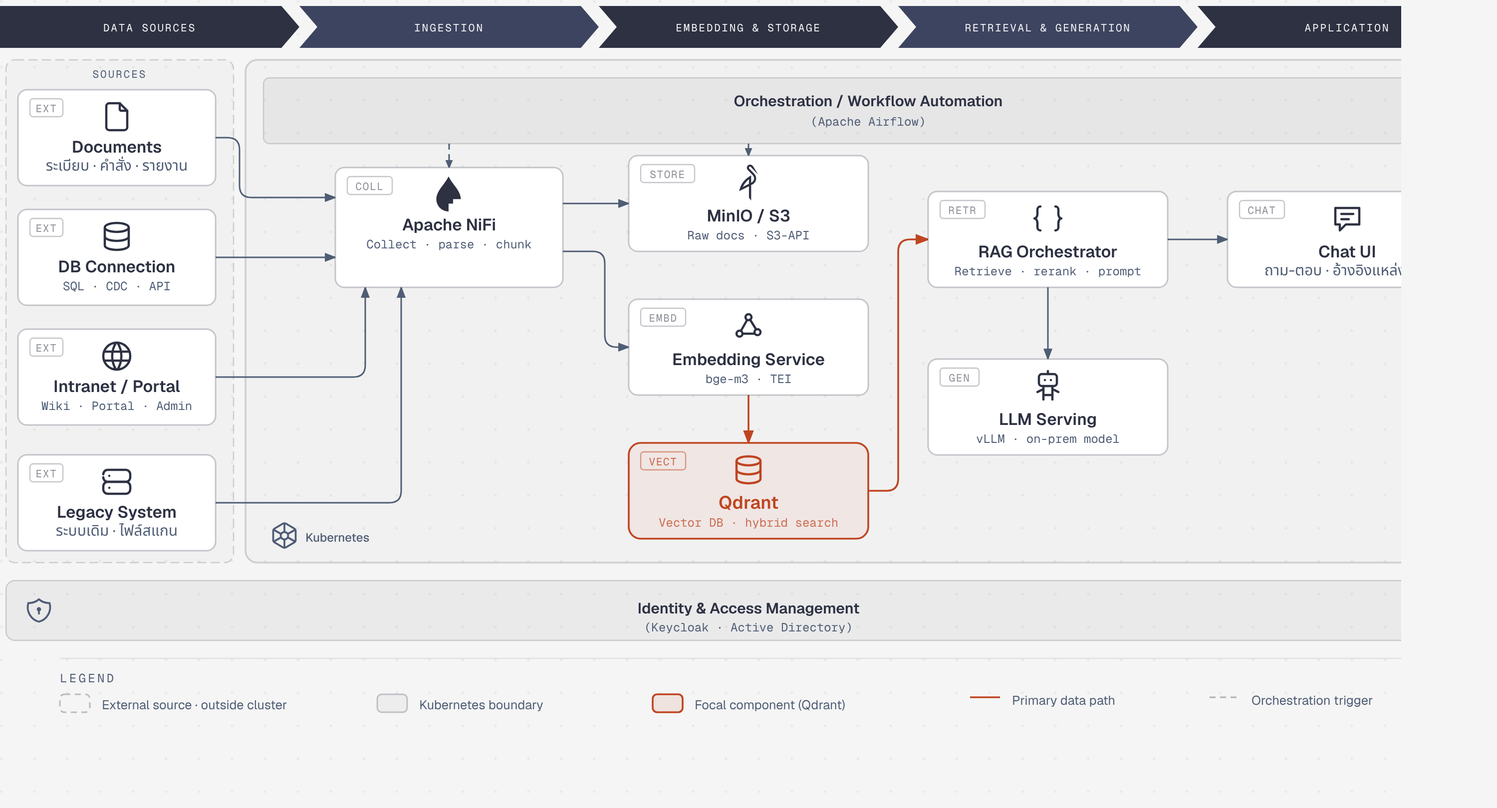
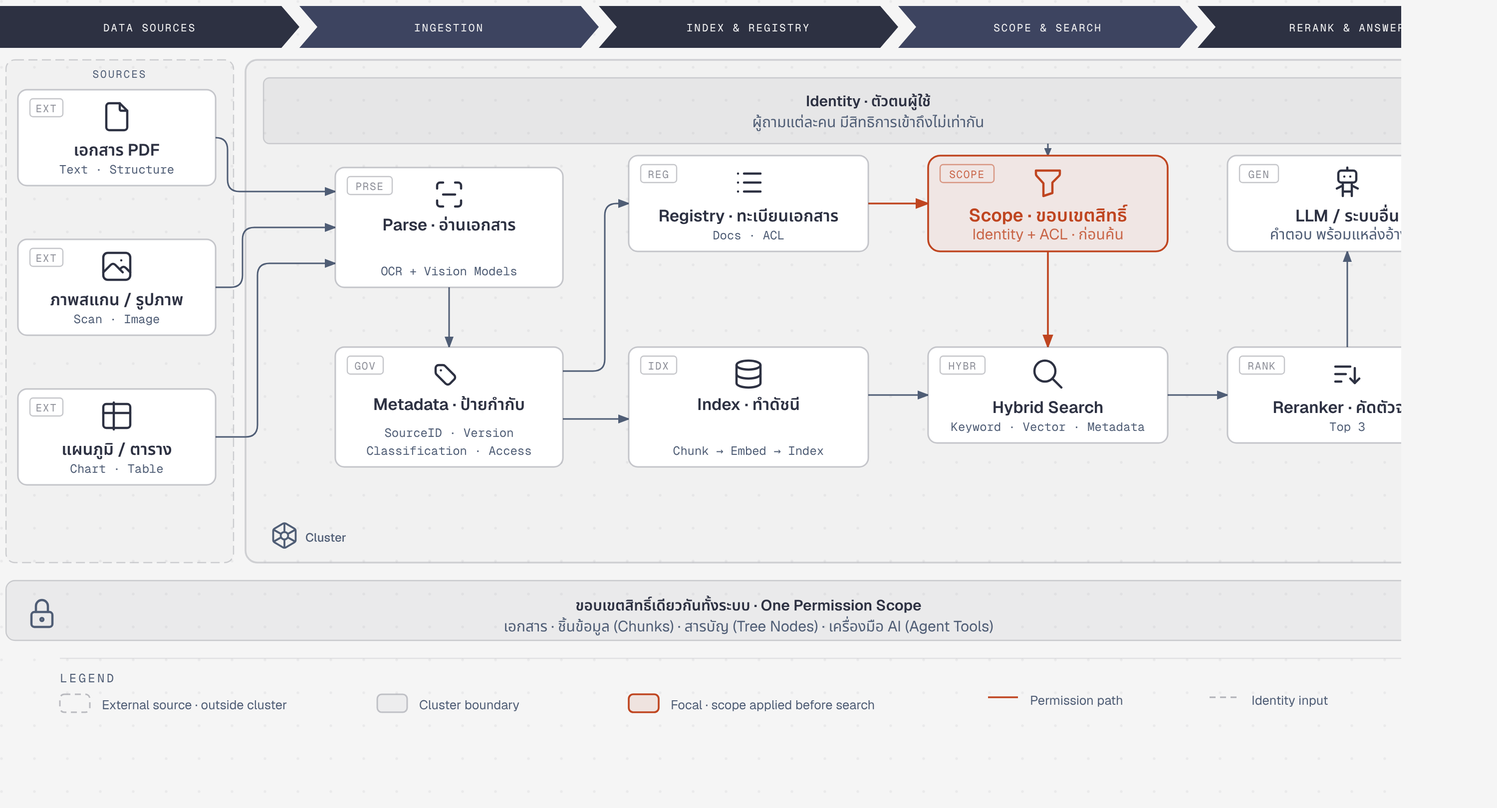
Redraw RAG pipeline diagram from the RTN permission-aware RAG brief
Claude-Session: https://claude.ai/code/session_01QbjLVvmiwCWFdXGCrayMwQ

diff --git a/docs/diagrams/rag-pipeline-navy.html b/docs/diagrams/rag-pipeline-navy.html
@@ -50,13 +50,13 @@
 </head>
 <body>
   <div class="frame">
-    <p class="eyebrow">High-level · End-to-end stack on Kubernetes</p>
+    <p class="eyebrow">High-level · Permission-aware RAG</p>
     <h1>RAG Pipeline สำหรับข้อมูล ทร.</h1>
 
     <div class="scroll">
     <svg class="diagram" viewBox="0 0 1000 540" xmlns="http://www.w3.org/2000/svg" role="img" aria-labelledby="rag-pipeline-title rag-pipeline-desc">
       <title id="rag-pipeline-title">RAG Pipeline สำหรับข้อมูล ทร.</title>
-      <desc id="rag-pipeline-desc">High-level stack on a Kubernetes cluster: documents, databases, intranet and legacy sources flow through Apache NiFi into MinIO and an embedding service, are indexed in Qdrant, then retrieved by a RAG orchestrator that calls an on-prem LLM and serves a chat UI, with Airflow orchestration and identity management.</desc>
+      <desc id="rag-pipeline-desc">Permission-aware RAG on a cluster: PDFs, scans and charts are parsed with OCR and vision models, labelled with governance metadata, indexed and registered with an ACL; the user's identity and the ACL define a permission scope that is applied before hybrid search, followed by a reranker and an LLM that answers with citations.</desc>
       <defs>
         <pattern id="dots" width="22" height="22" patternUnits="userSpaceOnUse">
           <circle cx="1" cy="1" r="0.9" fill="rgba(45,49,66,0.10)"/>
@@ -83,9 +83,9 @@
       <polygon points="800,4 1000,4 1000,32 800,32 812,18" fill="#2d3142"/>
       <text x="100" y="21" fill="#f5f5f5" font-size="7" font-family="'Geist Mono', monospace" letter-spacing="0.14em" text-anchor="middle">DATA SOURCES</text>
       <text x="300" y="21" fill="#f5f5f5" font-size="7" font-family="'Geist Mono', monospace" letter-spacing="0.14em" text-anchor="middle">INGESTION</text>
-      <text x="500" y="21" fill="#f5f5f5" font-size="7" font-family="'Geist Mono', monospace" letter-spacing="0.13em" text-anchor="middle">EMBEDDING &amp; STORAGE</text>
-      <text x="700" y="21" fill="#f5f5f5" font-size="7" font-family="'Geist Mono', monospace" letter-spacing="0.12em" text-anchor="middle">RETRIEVAL &amp; GENERATION</text>
-      <text x="900" y="21" fill="#f5f5f5" font-size="7" font-family="'Geist Mono', monospace" letter-spacing="0.14em" text-anchor="middle">APPLICATION</text>
+      <text x="500" y="21" fill="#f5f5f5" font-size="7" font-family="'Geist Mono', monospace" letter-spacing="0.14em" text-anchor="middle">INDEX &amp; REGISTRY</text>
+      <text x="700" y="21" fill="#f5f5f5" font-size="7" font-family="'Geist Mono', monospace" letter-spacing="0.14em" text-anchor="middle">SCOPE &amp; SEARCH</text>
+      <text x="900" y="21" fill="#f5f5f5" font-size="7" font-family="'Geist Mono', monospace" letter-spacing="0.14em" text-anchor="middle">RERANK &amp; ANSWER</text>
 
       <!-- Zones -->
       <rect x="4" y="40" width="152" height="336" rx="6" fill="rgba(45,49,66,0.02)" stroke="rgba(45,49,66,0.20)" stroke-width="0.8" stroke-dasharray="6,3"/>
@@ -94,18 +94,18 @@
       <rect x="4" y="388" width="992" height="40" rx="6" fill="rgba(45,49,66,0.05)" stroke="rgba(45,49,66,0.20)" stroke-width="0.8"/>
 
       <!-- Arrows (before boxes) -->
-      <path d="M 144,92 H 152 Q 160,92 160,100 V 124 Q 160,132 168,132 H 224" fill="none" stroke="#4f5d75" stroke-width="1" marker-end="url(#arrow)"/>
-      <path d="M 144,172 H 224" fill="none" stroke="#4f5d75" stroke-width="1" marker-end="url(#arrow)"/>
-      <path d="M 144,252 H 236 Q 244,252 244,244 V 192" fill="none" stroke="#4f5d75" stroke-width="1" marker-end="url(#arrow)"/>
-      <path d="M 144,336 H 260 Q 268,336 268,328 V 192" fill="none" stroke="#4f5d75" stroke-width="1" marker-end="url(#arrow)"/>
-      <path d="M 300,96 V 112" fill="none" stroke="#4f5d75" stroke-width="1" stroke-dasharray="4,3" marker-end="url(#arrow-sm)"/>
-      <path d="M 500,96 V 104" fill="none" stroke="#4f5d75" stroke-width="1" stroke-dasharray="4,3" marker-end="url(#arrow-sm)"/>
-      <path d="M 376,136 H 420" fill="none" stroke="#4f5d75" stroke-width="1" marker-end="url(#arrow)"/>
-      <path d="M 376,168 H 396 Q 404,168 404,176 V 224 Q 404,232 412,232 H 420" fill="none" stroke="#4f5d75" stroke-width="1" marker-end="url(#arrow)"/>
-      <path d="M 500,264 V 296" fill="none" stroke="#bf4520" stroke-width="1.2" marker-end="url(#arrow-accent)"/>
-      <path d="M 580,328 H 592 Q 600,328 600,320 V 168 Q 600,160 608,160 H 620" fill="none" stroke="#bf4520" stroke-width="1.2" marker-end="url(#arrow-accent)"/>
-      <path d="M 700,192 V 240" fill="none" stroke="#4f5d75" stroke-width="1" marker-end="url(#arrow)"/>
-      <path d="M 780,160 H 820" fill="none" stroke="#4f5d75" stroke-width="1" marker-end="url(#arrow)"/>
+      <path d="M 144,92 Q 152,92 152,100 V 120 Q 152,128 160,128 H 224" fill="none" stroke="#4f5d75" stroke-width="1" marker-end="url(#arrow)"/>
+      <path d="M 144,192 H 154 Q 162,192 162,184 V 160 Q 162,152 170,152 H 224" fill="none" stroke="#4f5d75" stroke-width="1" marker-end="url(#arrow)"/>
+      <path d="M 144,292 H 164 Q 172,292 172,284 V 184 Q 172,176 180,176 H 224" fill="none" stroke="#4f5d75" stroke-width="1" marker-end="url(#arrow)"/>
+      <path d="M 700,96 V 104" fill="none" stroke="#4f5d75" stroke-width="1" stroke-dasharray="4,3" marker-end="url(#arrow-sm)"/>
+      <path d="M 300,192 V 232" fill="none" stroke="#4f5d75" stroke-width="1" marker-end="url(#arrow)"/>
+      <path d="M 376,248 H 396 Q 404,248 404,240 V 144 Q 404,136 412,136 H 420" fill="none" stroke="#4f5d75" stroke-width="1" marker-end="url(#arrow)"/>
+      <path d="M 376,280 H 420" fill="none" stroke="#4f5d75" stroke-width="1" marker-end="url(#arrow)"/>
+      <path d="M 580,136 H 620" fill="none" stroke="#bf4520" stroke-width="1.2" marker-end="url(#arrow-accent)"/>
+      <path d="M 700,168 V 232" fill="none" stroke="#bf4520" stroke-width="1.2" marker-end="url(#arrow-accent)"/>
+      <path d="M 580,264 H 620" fill="none" stroke="#4f5d75" stroke-width="1" marker-end="url(#arrow)"/>
+      <path d="M 780,264 H 820" fill="none" stroke="#4f5d75" stroke-width="1" marker-end="url(#arrow)"/>
+      <path d="M 900,232 V 168" fill="none" stroke="#4f5d75" stroke-width="1" marker-end="url(#arrow)"/>
 
       <!-- Sources -->
       <rect x="12" y="60" width="132" height="64" rx="6" fill="#f5f5f5"/>
@@ -113,88 +113,89 @@
       <rect x="20" y="66" width="22" height="12" rx="2" fill="transparent" stroke="rgba(45,49,66,0.28)" stroke-width="0.8"/>
       <text x="31.0" y="75" fill="rgba(45,49,66,0.55)" font-size="7" font-family="'Geist Mono', monospace" text-anchor="middle" letter-spacing="0.08em">EXT</text>
       <svg x="66" y="66" width="24" height="24" viewBox="0 0 24 24" fill="none" stroke="#2d3142" stroke-width="1.5" stroke-linecap="round" stroke-linejoin="round" aria-hidden="true"><path d="M14 3v4a1 1 0 0 0 1 1h4"/><path d="M17 21h-10a2 2 0 0 1 -2 -2v-14a2 2 0 0 1 2 -2h7l5 5v11a2 2 0 0 1 -2 2"/></svg>
-      <text x="78.0" y="102" fill="#2d3142" font-size="11" font-weight="600" font-family="'Geist', 'Noto Sans Thai', sans-serif" text-anchor="middle">Documents</text>
-      <text x="78.0" y="114" fill="#4f5d75" font-size="10" font-family="'Geist', 'Noto Sans Thai', sans-serif" text-anchor="middle">ระเบียบ · คำสั่ง · รายงาน</text>
-      <rect x="12" y="140" width="132" height="64" rx="6" fill="#f5f5f5"/>
-      <rect x="12" y="140" width="132" height="64" rx="6" fill="white" stroke="rgba(45,49,66,0.25)" stroke-width="1"/>
-      <rect x="20" y="146" width="22" height="12" rx="2" fill="transparent" stroke="rgba(45,49,66,0.28)" stroke-width="0.8"/>
-      <text x="31.0" y="155" fill="rgba(45,49,66,0.55)" font-size="7" font-family="'Geist Mono', monospace" text-anchor="middle" letter-spacing="0.08em">EXT</text>
-      <svg x="66" y="146" width="24" height="24" viewBox="0 0 24 24" fill="none" stroke="#2d3142" stroke-width="1.5" stroke-linecap="round" stroke-linejoin="round" aria-hidden="true"><path d="M4 6a8 3 0 1 0 16 0a8 3 0 1 0 -16 0"/><path d="M4 6v6a8 3 0 0 0 16 0v-6"/><path d="M4 12v6a8 3 0 0 0 16 0v-6"/></svg>
-      <text x="78.0" y="182" fill="#2d3142" font-size="11" font-weight="600" font-family="'Geist', 'Noto Sans Thai', sans-serif" text-anchor="middle">DB Connection</text>
-      <text x="78.0" y="194" fill="#4f5d75" font-size="8" font-family="'Geist Mono', monospace" text-anchor="middle">SQL · CDC · API</text>
-      <rect x="12" y="220" width="132" height="64" rx="6" fill="#f5f5f5"/>
-      <rect x="12" y="220" width="132" height="64" rx="6" fill="white" stroke="rgba(45,49,66,0.25)" stroke-width="1"/>
-      <rect x="20" y="226" width="22" height="12" rx="2" fill="transparent" stroke="rgba(45,49,66,0.28)" stroke-width="0.8"/>
-      <text x="31.0" y="235" fill="rgba(45,49,66,0.55)" font-size="7" font-family="'Geist Mono', monospace" text-anchor="middle" letter-spacing="0.08em">EXT</text>
-      <svg x="66" y="226" width="24" height="24" viewBox="0 0 24 24" fill="none" stroke="#2d3142" stroke-width="1.5" stroke-linecap="round" stroke-linejoin="round" aria-hidden="true"><circle cx="12" cy="12" r="9"/><path d="M3.6 9h16.8M3.6 15h16.8"/><path d="M11.5 3a17 17 0 0 0 0 18M12.5 3a17 17 0 0 1 0 18"/></svg>
-      <text x="78.0" y="262" fill="#2d3142" font-size="11" font-weight="600" font-family="'Geist', 'Noto Sans Thai', sans-serif" text-anchor="middle">Intranet / Portal</text>
-      <text x="78.0" y="274" fill="#4f5d75" font-size="8" font-family="'Geist Mono', monospace" text-anchor="middle">Wiki · Portal · Admin</text>
-      <rect x="12" y="304" width="132" height="64" rx="6" fill="#f5f5f5"/>
-      <rect x="12" y="304" width="132" height="64" rx="6" fill="white" stroke="rgba(45,49,66,0.25)" stroke-width="1"/>
-      <rect x="20" y="310" width="22" height="12" rx="2" fill="transparent" stroke="rgba(45,49,66,0.28)" stroke-width="0.8"/>
-      <text x="31.0" y="319" fill="rgba(45,49,66,0.55)" font-size="7" font-family="'Geist Mono', monospace" text-anchor="middle" letter-spacing="0.08em">EXT</text>
-      <svg x="66" y="310" width="24" height="24" viewBox="0 0 24 24" fill="none" stroke="#2d3142" stroke-width="1.5" stroke-linecap="round" stroke-linejoin="round" aria-hidden="true"><path d="M3 7a3 3 0 0 1 3 -3h12a3 3 0 0 1 3 3v2a3 3 0 0 1 -3 3h-12a3 3 0 0 1 -3 -3"/><path d="M3 15a3 3 0 0 1 3 -3h12a3 3 0 0 1 3 3v2a3 3 0 0 1 -3 3h-12a3 3 0 0 1 -3 -3l0 -2"/><path d="M7 8l0 .01"/><path d="M7 16l0 .01"/></svg>
-      <text x="78.0" y="346" fill="#2d3142" font-size="11" font-weight="600" font-family="'Geist', 'Noto Sans Thai', sans-serif" text-anchor="middle">Legacy System</text>
-      <text x="78.0" y="358" fill="#4f5d75" font-size="10" font-family="'Geist', 'Noto Sans Thai', sans-serif" text-anchor="middle">ระบบเดิม · ไฟล์สแกน</text>
+      <text x="78.0" y="104" fill="#2d3142" font-size="11" font-weight="600" font-family="'Geist', 'Noto Sans Thai', sans-serif" text-anchor="middle">เอกสาร PDF</text>
+      <text x="78.0" y="116" fill="#4f5d75" font-size="8" font-family="'Geist Mono', monospace" text-anchor="middle">Text · Structure</text>
+      <rect x="12" y="160" width="132" height="64" rx="6" fill="#f5f5f5"/>
+      <rect x="12" y="160" width="132" height="64" rx="6" fill="white" stroke="rgba(45,49,66,0.25)" stroke-width="1"/>
+      <rect x="20" y="166" width="22" height="12" rx="2" fill="transparent" stroke="rgba(45,49,66,0.28)" stroke-width="0.8"/>
+      <text x="31.0" y="175" fill="rgba(45,49,66,0.55)" font-size="7" font-family="'Geist Mono', monospace" text-anchor="middle" letter-spacing="0.08em">EXT</text>
+      <svg x="66" y="166" width="24" height="24" viewBox="0 0 24 24" fill="none" stroke="#2d3142" stroke-width="1.5" stroke-linecap="round" stroke-linejoin="round" aria-hidden="true"><path d="M15 8h.01"/><path d="M3 6a3 3 0 0 1 3 -3h12a3 3 0 0 1 3 3v12a3 3 0 0 1 -3 3h-12a3 3 0 0 1 -3 -3l0 -12"/><path d="M3 16l5 -5c.928 -.893 2.072 -.893 3 0l5 5"/><path d="M14 14l1 -1c.928 -.893 2.072 -.893 3 0l3 3"/></svg>
+      <text x="78.0" y="204" fill="#2d3142" font-size="11" font-weight="600" font-family="'Geist', 'Noto Sans Thai', sans-serif" text-anchor="middle">ภาพสแกน / รูปภาพ</text>
+      <text x="78.0" y="216" fill="#4f5d75" font-size="8" font-family="'Geist Mono', monospace" text-anchor="middle">Scan · Image</text>
+      <rect x="12" y="260" width="132" height="64" rx="6" fill="#f5f5f5"/>
+      <rect x="12" y="260" width="132" height="64" rx="6" fill="white" stroke="rgba(45,49,66,0.25)" stroke-width="1"/>
+      <rect x="20" y="266" width="22" height="12" rx="2" fill="transparent" stroke="rgba(45,49,66,0.28)" stroke-width="0.8"/>
+      <text x="31.0" y="275" fill="rgba(45,49,66,0.55)" font-size="7" font-family="'Geist Mono', monospace" text-anchor="middle" letter-spacing="0.08em">EXT</text>
+      <svg x="66" y="266" width="24" height="24" viewBox="0 0 24 24" fill="none" stroke="#2d3142" stroke-width="1.5" stroke-linecap="round" stroke-linejoin="round" aria-hidden="true"><path d="M3 6a2 2 0 0 1 2 -2h14a2 2 0 0 1 2 2v12a2 2 0 0 1 -2 2h-14a2 2 0 0 1 -2 -2l0 -12"/><path d="M3 10h18"/><path d="M10 3v18"/></svg>
+      <text x="78.0" y="304" fill="#2d3142" font-size="11" font-weight="600" font-family="'Geist', 'Noto Sans Thai', sans-serif" text-anchor="middle">แผนภูมิ / ตาราง</text>
+      <text x="78.0" y="316" fill="#4f5d75" font-size="8" font-family="'Geist Mono', monospace" text-anchor="middle">Chart · Table</text>
 
-      <!-- Airflow bar -->
+      <!-- Identity bar (top, inside cluster) -->
       <rect x="176" y="52" width="808" height="44" rx="4" fill="rgba(45,49,66,0.05)" stroke="rgba(45,49,66,0.18)" stroke-width="0.8"/>
-      <svg x="950" y="58" width="24" height="24" viewBox="0 0 24 24" fill="#4f5d75" aria-hidden="true"><path d="M17.195 16.822l4.002-4.102C23.55 10.308 23.934 5.154 24 .43a.396.396 0 0 0-.246-.373.392.392 0 0 0-.437.09l-6.495 6.658-4.102-4.003C10.309.45 5.154.066.43 0H.423a.397.397 0 0 0-.277.683l6.658 6.494-4.003 4.103C.45 13.692.065 18.846 0 23.57a.398.398 0 0 0 .683.282l6.494-6.657 3.934 3.837.17.165c2.41 2.353 7.565 2.737 12.288 2.803h.006a.397.397 0 0 0 .277-.683l-6.657-6.495z"/></svg>
-      <text x="580" y="71" fill="#2d3142" font-size="10" font-weight="600" font-family="'Geist', 'Noto Sans Thai', sans-serif" text-anchor="middle">Orchestration / Workflow Automation</text>
-      <text x="580" y="84" fill="#4f5d75" font-size="8" font-family="'Geist Mono', monospace" text-anchor="middle">(Apache Airflow)</text>
+      <svg x="950" y="62" width="24" height="24" viewBox="0 0 24 24" fill="none" stroke="#4f5d75" stroke-width="1.5" stroke-linecap="round" stroke-linejoin="round" aria-hidden="true"><path d="M8 7a4 4 0 1 0 8 0a4 4 0 1 0 -8 0"/><path d="M6 21v-2a4 4 0 0 1 4 -4h4a4 4 0 0 1 4 4v2"/></svg>
+      <text x="580" y="71" fill="#2d3142" font-size="10" font-weight="600" font-family="'Geist', 'Noto Sans Thai', sans-serif" text-anchor="middle">Identity · ตัวตนผู้ใช้</text>
+      <text x="580" y="85" fill="#4f5d75" font-size="10" font-family="'Geist', 'Noto Sans Thai', sans-serif" text-anchor="middle">ผู้ถามแต่ละคน มีสิทธิการเข้าถึงไม่เท่ากัน</text>
 
       <!-- Cluster nodes -->
       <rect x="224" y="112" width="152" height="80" rx="6" fill="#f5f5f5"/>
       <rect x="224" y="112" width="152" height="80" rx="6" fill="white" stroke="rgba(45,49,66,0.25)" stroke-width="1"/>
       <rect x="232" y="118" width="30" height="12" rx="2" fill="transparent" stroke="rgba(45,49,66,0.28)" stroke-width="0.8"/>
-      <text x="247.0" y="127" fill="rgba(45,49,66,0.55)" font-size="7" font-family="'Geist Mono', monospace" text-anchor="middle" letter-spacing="0.08em">COLL</text>
-      <svg x="288" y="118" width="24" height="24" viewBox="0 0 24 24" fill="#2d3142" aria-hidden="true"><path d="M11.648 0a.093.093 0 0 0-.084.053A30.71 30.71 0 0 1 8.592 4.73c-2.09 2.728-5.145 6.466-5.145 10.364a8.201 8.201 0 0 0 8.201 8.2v-5.003c0-.106.087-.193.194-.193h2.81v-2.813c0-.106.087-.191.194-.191h5.004c0-3.9-3.056-7.636-5.145-10.364A30.712 30.712 0 0 1 11.732.053.094.094 0 0 0 11.648 0z"/></svg>
-      <text x="300.0" y="154" fill="#2d3142" font-size="11" font-weight="600" font-family="'Geist', 'Noto Sans Thai', sans-serif" text-anchor="middle">Apache NiFi</text>
-      <text x="300.0" y="166" fill="#4f5d75" font-size="8" font-family="'Geist Mono', monospace" text-anchor="middle">Collect · parse · chunk</text>
+      <text x="247.0" y="127" fill="rgba(45,49,66,0.55)" font-size="7" font-family="'Geist Mono', monospace" text-anchor="middle" letter-spacing="0.08em">PRSE</text>
+      <svg x="288" y="118" width="24" height="24" viewBox="0 0 24 24" fill="none" stroke="#2d3142" stroke-width="1.5" stroke-linecap="round" stroke-linejoin="round" aria-hidden="true"><path d="M4 8v-2a2 2 0 0 1 2 -2h2"/><path d="M4 16v2a2 2 0 0 0 2 2h2"/><path d="M16 4h2a2 2 0 0 1 2 2v2"/><path d="M16 20h2a2 2 0 0 0 2 -2v-2"/><path d="M8 12h8"/></svg>
+      <text x="300.0" y="154" fill="#2d3142" font-size="11" font-weight="600" font-family="'Geist', 'Noto Sans Thai', sans-serif" text-anchor="middle">Parse · อ่านเอกสาร</text>
+      <text x="300.0" y="184" fill="#4f5d75" font-size="8" font-family="'Geist Mono', monospace" text-anchor="middle">OCR + Vision Models</text>
+      <rect x="224" y="232" width="152" height="80" rx="6" fill="#f5f5f5"/>
+      <rect x="224" y="232" width="152" height="80" rx="6" fill="white" stroke="rgba(45,49,66,0.25)" stroke-width="1"/>
+      <rect x="232" y="238" width="24" height="12" rx="2" fill="transparent" stroke="rgba(45,49,66,0.28)" stroke-width="0.8"/>
+      <text x="244.0" y="247" fill="rgba(45,49,66,0.55)" font-size="7" font-family="'Geist Mono', monospace" text-anchor="middle" letter-spacing="0.08em">GOV</text>
+      <svg x="288" y="238" width="24" height="24" viewBox="0 0 24 24" fill="none" stroke="#2d3142" stroke-width="1.5" stroke-linecap="round" stroke-linejoin="round" aria-hidden="true"><path d="M7.859 6h-2.834a2.025 2.025 0 0 0 -2.025 2.025v2.834c0 .537 .213 1.052 .593 1.432l6.116 6.116a2.025 2.025 0 0 0 2.864 0l2.834 -2.834a2.025 2.025 0 0 0 0 -2.864l-6.117 -6.116a2.025 2.025 0 0 0 -1.431 -.593"/><path d="M6.5 9.5h.01"/></svg>
+      <text x="300.0" y="274" fill="#2d3142" font-size="11" font-weight="600" font-family="'Geist', 'Noto Sans Thai', sans-serif" text-anchor="middle">Metadata · ป้ายกำกับ</text>
+      <text x="300.0" y="292" fill="#4f5d75" font-size="8" font-family="'Geist Mono', monospace" text-anchor="middle">SourceID · Version</text>
+      <text x="300.0" y="304" fill="#4f5d75" font-size="8" font-family="'Geist Mono', monospace" text-anchor="middle">Classification · Access</text>
       <rect x="420" y="104" width="160" height="64" rx="6" fill="#f5f5f5"/>
       <rect x="420" y="104" width="160" height="64" rx="6" fill="white" stroke="rgba(45,49,66,0.25)" stroke-width="1"/>
-      <rect x="428" y="110" width="36" height="12" rx="2" fill="transparent" stroke="rgba(45,49,66,0.28)" stroke-width="0.8"/>
-      <text x="446.0" y="119" fill="rgba(45,49,66,0.55)" font-size="7" font-family="'Geist Mono', monospace" text-anchor="middle" letter-spacing="0.08em">STORE</text>
-      <svg x="488" y="110" width="24" height="24" viewBox="0 0 24 24" fill="#2d3142" aria-hidden="true"><path d="M13.2072.006c-.6216-.0478-1.2.1943-1.6211.582a2.15 2.15 0 0 0-.0938 3.0352l3.4082 3.5507a3.042 3.042 0 0 1-.664 4.6875l-.463.2383V7.2853a15.4198 15.4198 0 0 0-8.0174 10.4862v.0176l6.5487-3.3281v7.621L13.7794 24V13.6817l.8965-.4629a4.4432 4.4432 0 0 0 1.2207-7.0292l-3.371-3.5254a.7489.7489 0 0 1 .037-1.0547.7522.7522 0 0 1 1.0567.0371l.4668.4863-.006.0059 4.0704 4.2441a.0566.0566 0 0 0 .082 0 .06.06 0 0 0 0-.0703l-3.1406-5.1425-.1484.1425.1484-.1445C14.4945.3926 13.8287.0538 13.2072.006Zm-.9024 9.8652v2.9941l-4.1523 2.1484a13.9787 13.9787 0 0 1 2.7676-3.9277 14.1784 14.1784 0 0 1 1.3847-1.2148z"/></svg>
-      <text x="500.0" y="148" fill="#2d3142" font-size="11" font-weight="600" font-family="'Geist', 'Noto Sans Thai', sans-serif" text-anchor="middle">MinIO / S3</text>
-      <text x="500.0" y="160" fill="#4f5d75" font-size="8" font-family="'Geist Mono', monospace" text-anchor="middle">Raw docs · S3-API</text>
-      <rect x="420" y="200" width="160" height="64" rx="6" fill="#f5f5f5"/>
-      <rect x="420" y="200" width="160" height="64" rx="6" fill="white" stroke="rgba(45,49,66,0.25)" stroke-width="1"/>
-      <rect x="428" y="206" width="30" height="12" rx="2" fill="transparent" stroke="rgba(45,49,66,0.28)" stroke-width="0.8"/>
-      <text x="443.0" y="215" fill="rgba(45,49,66,0.55)" font-size="7" font-family="'Geist Mono', monospace" text-anchor="middle" letter-spacing="0.08em">EMBD</text>
-      <svg x="488" y="206" width="24" height="24" viewBox="0 0 24 24" fill="none" stroke="#2d3142" stroke-width="1.5" stroke-linecap="round" stroke-linejoin="round" aria-hidden="true"><circle cx="6" cy="17" r="2"/><circle cx="12" cy="6" r="2"/><circle cx="18" cy="16" r="2"/><path d="M7 15l4 -7M13 7.5l4 6.5M8 17h8"/></svg>
-      <text x="500.0" y="244" fill="#2d3142" font-size="11" font-weight="600" font-family="'Geist', 'Noto Sans Thai', sans-serif" text-anchor="middle">Embedding Service</text>
-      <text x="500.0" y="256" fill="#4f5d75" font-size="8" font-family="'Geist Mono', monospace" text-anchor="middle">bge-m3 · TEI</text>
-      <rect x="420" y="296" width="160" height="64" rx="8" fill="#f5f5f5"/>
-      <rect x="420" y="296" width="160" height="64" rx="8" fill="rgba(191,69,32,0.08)" stroke="#bf4520" stroke-width="1.2"/>
-      <rect x="428" y="302" width="30" height="12" rx="2" fill="transparent" stroke="rgba(191,69,32,0.50)" stroke-width="0.8"/>
-      <text x="443.0" y="311" fill="rgba(191,69,32,0.80)" font-size="7" font-family="'Geist Mono', monospace" text-anchor="middle" letter-spacing="0.08em">VECT</text>
-      <svg x="488" y="302" width="24" height="24" viewBox="0 0 24 24" fill="none" stroke="#bf4520" stroke-width="1.5" stroke-linecap="round" stroke-linejoin="round" aria-hidden="true"><path d="M4 6a8 3 0 1 0 16 0a8 3 0 1 0 -16 0"/><path d="M4 6v6a8 3 0 0 0 16 0v-6"/><path d="M4 12v6a8 3 0 0 0 16 0v-6"/></svg>
-      <text x="500.0" y="340" fill="#bf4520" font-size="12" font-weight="600" font-family="'Geist', 'Noto Sans Thai', sans-serif" text-anchor="middle">Qdrant</text>
-      <text x="500.0" y="352" fill="#bf4520" font-size="8" font-family="'Geist Mono', monospace" text-anchor="middle" opacity="0.75">Vector DB · hybrid search</text>
-      <rect x="620" y="128" width="160" height="64" rx="6" fill="#f5f5f5"/>
-      <rect x="620" y="128" width="160" height="64" rx="6" fill="white" stroke="rgba(45,49,66,0.25)" stroke-width="1"/>
-      <rect x="628" y="134" width="30" height="12" rx="2" fill="transparent" stroke="rgba(45,49,66,0.28)" stroke-width="0.8"/>
-      <text x="643.0" y="143" fill="rgba(45,49,66,0.55)" font-size="7" font-family="'Geist Mono', monospace" text-anchor="middle" letter-spacing="0.08em">RETR</text>
-      <svg x="688" y="134" width="24" height="24" viewBox="0 0 24 24" fill="none" stroke="#2d3142" stroke-width="1.5" stroke-linecap="round" stroke-linejoin="round" aria-hidden="true"><path d="M7 4a2 2 0 0 0 -2 2v3a2 3 0 0 1 -2 3a2 3 0 0 1 2 3v3a2 2 0 0 0 2 2"/><path d="M17 4a2 2 0 0 1 2 2v3a2 3 0 0 0 2 3a2 3 0 0 0 -2 3v3a2 2 0 0 1 -2 2"/></svg>
-      <text x="700.0" y="172" fill="#2d3142" font-size="11" font-weight="600" font-family="'Geist', 'Noto Sans Thai', sans-serif" text-anchor="middle">RAG Orchestrator</text>
-      <text x="700.0" y="184" fill="#4f5d75" font-size="8" font-family="'Geist Mono', monospace" text-anchor="middle">Retrieve · rerank · prompt</text>
-      <rect x="620" y="240" width="160" height="64" rx="6" fill="#f5f5f5"/>
-      <rect x="620" y="240" width="160" height="64" rx="6" fill="white" stroke="rgba(45,49,66,0.25)" stroke-width="1"/>
-      <rect x="628" y="246" width="26" height="12" rx="2" fill="transparent" stroke="rgba(45,49,66,0.28)" stroke-width="0.8"/>
-      <text x="641.0" y="255" fill="rgba(45,49,66,0.55)" font-size="7" font-family="'Geist Mono', monospace" text-anchor="middle" letter-spacing="0.08em">GEN</text>
-      <svg x="688" y="246" width="24" height="24" viewBox="0 0 24 24" fill="none" stroke="#2d3142" stroke-width="1.5" stroke-linecap="round" stroke-linejoin="round" aria-hidden="true"><path d="M6 6a2 2 0 0 1 2 -2h8a2 2 0 0 1 2 2v4a2 2 0 0 1 -2 2h-8a2 2 0 0 1 -2 -2l0 -4"/><path d="M12 2v2"/><path d="M9 12v9"/><path d="M15 12v9"/><path d="M5 16l4 -2"/><path d="M15 14l4 2"/><path d="M9 18h6"/><path d="M10 8v.01"/><path d="M14 8v.01"/></svg>
-      <text x="700.0" y="284" fill="#2d3142" font-size="11" font-weight="600" font-family="'Geist', 'Noto Sans Thai', sans-serif" text-anchor="middle">LLM Serving</text>
-      <text x="700.0" y="296" fill="#4f5d75" font-size="8" font-family="'Geist Mono', monospace" text-anchor="middle">vLLM · on-prem model</text>
-      <rect x="820" y="128" width="160" height="64" rx="6" fill="#f5f5f5"/>
-      <rect x="820" y="128" width="160" height="64" rx="6" fill="white" stroke="rgba(45,49,66,0.25)" stroke-width="1"/>
-      <rect x="828" y="134" width="30" height="12" rx="2" fill="transparent" stroke="rgba(45,49,66,0.28)" stroke-width="0.8"/>
-      <text x="843.0" y="143" fill="rgba(45,49,66,0.55)" font-size="7" font-family="'Geist Mono', monospace" text-anchor="middle" letter-spacing="0.08em">CHAT</text>
-      <svg x="888" y="134" width="24" height="24" viewBox="0 0 24 24" fill="none" stroke="#2d3142" stroke-width="1.5" stroke-linecap="round" stroke-linejoin="round" aria-hidden="true"><path d="M4 5h16v11h-9l-4 4v-4h-3z"/><path d="M8 9h8M8 12.5h5"/></svg>
-      <text x="900.0" y="172" fill="#2d3142" font-size="11" font-weight="600" font-family="'Geist', 'Noto Sans Thai', sans-serif" text-anchor="middle">Chat UI</text>
-      <text x="900.0" y="184" fill="#4f5d75" font-size="10" font-family="'Geist', 'Noto Sans Thai', sans-serif" text-anchor="middle">ถาม-ตอบ · อ้างอิงแหล่งที่มา</text>
+      <rect x="428" y="110" width="24" height="12" rx="2" fill="transparent" stroke="rgba(45,49,66,0.28)" stroke-width="0.8"/>
+      <text x="440.0" y="119" fill="rgba(45,49,66,0.55)" font-size="7" font-family="'Geist Mono', monospace" text-anchor="middle" letter-spacing="0.08em">REG</text>
+      <svg x="488" y="110" width="24" height="24" viewBox="0 0 24 24" fill="none" stroke="#2d3142" stroke-width="1.5" stroke-linecap="round" stroke-linejoin="round" aria-hidden="true"><path d="M9 6h11"/><path d="M9 12h11"/><path d="M9 18h11"/><path d="M5 6v.01"/><path d="M5 12v.01"/><path d="M5 18v.01"/></svg>
+      <text x="500.0" y="148" fill="#2d3142" font-size="11" font-weight="600" font-family="'Geist', 'Noto Sans Thai', sans-serif" text-anchor="middle">Registry · ทะเบียนเอกสาร</text>
+      <text x="500.0" y="160" fill="#4f5d75" font-size="8" font-family="'Geist Mono', monospace" text-anchor="middle">Docs · ACL</text>
+      <rect x="420" y="232" width="160" height="80" rx="6" fill="#f5f5f5"/>
+      <rect x="420" y="232" width="160" height="80" rx="6" fill="white" stroke="rgba(45,49,66,0.25)" stroke-width="1"/>
+      <rect x="428" y="238" width="24" height="12" rx="2" fill="transparent" stroke="rgba(45,49,66,0.28)" stroke-width="0.8"/>
+      <text x="440.0" y="247" fill="rgba(45,49,66,0.55)" font-size="7" font-family="'Geist Mono', monospace" text-anchor="middle" letter-spacing="0.08em">IDX</text>
+      <svg x="488" y="238" width="24" height="24" viewBox="0 0 24 24" fill="none" stroke="#2d3142" stroke-width="1.5" stroke-linecap="round" stroke-linejoin="round" aria-hidden="true"><path d="M4 6a8 3 0 1 0 16 0a8 3 0 1 0 -16 0"/><path d="M4 6v6a8 3 0 0 0 16 0v-6"/><path d="M4 12v6a8 3 0 0 0 16 0v-6"/></svg>
+      <text x="500.0" y="274" fill="#2d3142" font-size="11" font-weight="600" font-family="'Geist', 'Noto Sans Thai', sans-serif" text-anchor="middle">Index · ทำดัชนี</text>
+      <text x="500.0" y="304" fill="#4f5d75" font-size="8" font-family="'Geist Mono', monospace" text-anchor="middle">Chunk → Embed → Index</text>
+      <rect x="620" y="104" width="160" height="64" rx="8" fill="#f5f5f5"/>
+      <rect x="620" y="104" width="160" height="64" rx="8" fill="rgba(191,69,32,0.08)" stroke="#bf4520" stroke-width="1.2"/>
+      <rect x="628" y="110" width="36" height="12" rx="2" fill="transparent" stroke="rgba(191,69,32,0.50)" stroke-width="0.8"/>
+      <text x="646.0" y="119" fill="rgba(191,69,32,0.80)" font-size="7" font-family="'Geist Mono', monospace" text-anchor="middle" letter-spacing="0.08em">SCOPE</text>
+      <svg x="688" y="110" width="24" height="24" viewBox="0 0 24 24" fill="none" stroke="#bf4520" stroke-width="1.5" stroke-linecap="round" stroke-linejoin="round" aria-hidden="true"><path d="M4 4h16v2.172a2 2 0 0 1 -.586 1.414l-4.414 4.414v7l-6 2v-8.5l-4.48 -4.928a2 2 0 0 1 -.52 -1.345v-2.227"/></svg>
+      <text x="700.0" y="148" fill="#bf4520" font-size="12" font-weight="600" font-family="'Geist', 'Noto Sans Thai', sans-serif" text-anchor="middle">Scope · ขอบเขตสิทธิ์</text>
+      <text x="700.0" y="160" fill="#bf4520" font-size="10" font-family="'Geist', 'Noto Sans Thai', sans-serif" text-anchor="middle" opacity="0.8">Identity + ACL · ก่อนค้น</text>
+      <rect x="620" y="232" width="160" height="64" rx="6" fill="#f5f5f5"/>
+      <rect x="620" y="232" width="160" height="64" rx="6" fill="white" stroke="rgba(45,49,66,0.25)" stroke-width="1"/>
+      <rect x="628" y="238" width="30" height="12" rx="2" fill="transparent" stroke="rgba(45,49,66,0.28)" stroke-width="0.8"/>
+      <text x="643.0" y="247" fill="rgba(45,49,66,0.55)" font-size="7" font-family="'Geist Mono', monospace" text-anchor="middle" letter-spacing="0.08em">HYBR</text>
+      <svg x="688" y="238" width="24" height="24" viewBox="0 0 24 24" fill="none" stroke="#2d3142" stroke-width="1.5" stroke-linecap="round" stroke-linejoin="round" aria-hidden="true"><path d="M3 10a7 7 0 1 0 14 0a7 7 0 1 0 -14 0"/><path d="M21 21l-6 -6"/></svg>
+      <text x="700.0" y="276" fill="#2d3142" font-size="11" font-weight="600" font-family="'Geist', 'Noto Sans Thai', sans-serif" text-anchor="middle">Hybrid Search</text>
+      <text x="700.0" y="288" fill="#4f5d75" font-size="8" font-family="'Geist Mono', monospace" text-anchor="middle">Keyword · Vector · Metadata</text>
+      <rect x="820" y="232" width="160" height="64" rx="6" fill="#f5f5f5"/>
+      <rect x="820" y="232" width="160" height="64" rx="6" fill="white" stroke="rgba(45,49,66,0.25)" stroke-width="1"/>
+      <rect x="828" y="238" width="30" height="12" rx="2" fill="transparent" stroke="rgba(45,49,66,0.28)" stroke-width="0.8"/>
+      <text x="843.0" y="247" fill="rgba(45,49,66,0.55)" font-size="7" font-family="'Geist Mono', monospace" text-anchor="middle" letter-spacing="0.08em">RANK</text>
+      <svg x="888" y="238" width="24" height="24" viewBox="0 0 24 24" fill="none" stroke="#2d3142" stroke-width="1.5" stroke-linecap="round" stroke-linejoin="round" aria-hidden="true"><path d="M4 7h10"/><path d="M4 12h7"/><path d="M4 17h4"/><path d="M17 8v10"/><path d="M14 15l3 3l3 -3"/></svg>
+      <text x="900.0" y="276" fill="#2d3142" font-size="11" font-weight="600" font-family="'Geist', 'Noto Sans Thai', sans-serif" text-anchor="middle">Reranker · คัดตัวจริง</text>
+      <text x="900.0" y="288" fill="#4f5d75" font-size="8" font-family="'Geist Mono', monospace" text-anchor="middle">Top 3</text>
+      <rect x="820" y="104" width="160" height="64" rx="6" fill="#f5f5f5"/>
+      <rect x="820" y="104" width="160" height="64" rx="6" fill="white" stroke="rgba(45,49,66,0.25)" stroke-width="1"/>
+      <rect x="828" y="110" width="26" height="12" rx="2" fill="transparent" stroke="rgba(45,49,66,0.28)" stroke-width="0.8"/>
+      <text x="841.0" y="119" fill="rgba(45,49,66,0.55)" font-size="7" font-family="'Geist Mono', monospace" text-anchor="middle" letter-spacing="0.08em">GEN</text>
+      <svg x="888" y="110" width="24" height="24" viewBox="0 0 24 24" fill="none" stroke="#2d3142" stroke-width="1.5" stroke-linecap="round" stroke-linejoin="round" aria-hidden="true"><path d="M6 6a2 2 0 0 1 2 -2h8a2 2 0 0 1 2 2v4a2 2 0 0 1 -2 2h-8a2 2 0 0 1 -2 -2l0 -4"/><path d="M12 2v2"/><path d="M9 12v9"/><path d="M15 12v9"/><path d="M5 16l4 -2"/><path d="M15 14l4 2"/><path d="M9 18h6"/><path d="M10 8v.01"/><path d="M14 8v.01"/></svg>
+      <text x="900.0" y="148" fill="#2d3142" font-size="11" font-weight="600" font-family="'Geist', 'Noto Sans Thai', sans-serif" text-anchor="middle">LLM / ระบบอื่น</text>
+      <text x="900.0" y="160" fill="#4f5d75" font-size="10" font-family="'Geist', 'Noto Sans Thai', sans-serif" text-anchor="middle">คำตอบ พร้อมแหล่งอ้างอิง</text>
 
-      <!-- Kubernetes label -->
+      <!-- Cluster label -->
       <svg x="180" y="348" width="20" height="20" viewBox="0 0 24 24" fill="none" stroke="#4f5d75" stroke-width="1.5" stroke-linecap="round" stroke-linejoin="round" aria-hidden="true">
         <path d="M19.875 6.27a2.225 2.225 0 0 1 1.125 1.948v7.284c0 .809-.443 1.555-1.158 1.948l-6.75 3.98a2.5 2.5 0 0 1-2.184 0l-6.75-3.98a2.225 2.225 0 0 1-1.158-1.948v-7.284c0-.809.443-1.555 1.158-1.948l6.75-3.98a2.5 2.5 0 0 1 2.184 0z"/>
         <circle cx="12" cy="12" r="3"/>
@@ -202,16 +203,12 @@
         <line x1="20.2" y1="7.5" x2="14.9" y2="10.5"/><line x1="9.1" y1="13.5" x2="3.8" y2="16.5"/>
         <line x1="20.2" y1="16.5" x2="14.9" y2="13.5"/><line x1="9.1" y1="10.5" x2="3.8" y2="7.5"/>
       </svg>
-      <text x="204" y="362" fill="#4f5d75" font-size="8" font-weight="500" font-family="'Geist', 'Noto Sans Thai', sans-serif">Kubernetes</text>
+      <text x="204" y="362" fill="#4f5d75" font-size="8" font-weight="500" font-family="'Geist', 'Noto Sans Thai', sans-serif">Cluster</text>
 
-      <!-- Identity bar -->
-      <svg x="16" y="398" width="20" height="20" viewBox="0 0 24 24" fill="none" stroke="#4f5d75" stroke-width="1.5" stroke-linecap="round" stroke-linejoin="round" aria-hidden="true">
-        <path d="M12 3a12 12 0 0 0 8.5 3a12 12 0 0 1-8.5 15a12 12 0 0 1-8.5-15a12 12 0 0 0 8.5-3"/>
-        <circle cx="12" cy="11" r="1" fill="#4f5d75"/>
-        <line x1="12" y1="12" x2="12" y2="14.5"/>
-      </svg>
-      <text x="500" y="410" fill="#2d3142" font-size="10" font-weight="600" font-family="'Geist', 'Noto Sans Thai', sans-serif" text-anchor="middle">Identity &amp; Access Management</text>
-      <text x="500" y="422" fill="#4f5d75" font-size="8" font-family="'Geist Mono', monospace" text-anchor="middle">(Keycloak · Active Directory)</text>
+      <!-- One permission scope bar -->
+      <svg x="16" y="398" width="24" height="24" viewBox="0 0 24 24" fill="none" stroke="#4f5d75" stroke-width="1.5" stroke-linecap="round" stroke-linejoin="round" aria-hidden="true"><path d="M5 13a2 2 0 0 1 2 -2h10a2 2 0 0 1 2 2v6a2 2 0 0 1 -2 2h-10a2 2 0 0 1 -2 -2l0 -6"/><path d="M11 16a1 1 0 1 0 2 0a1 1 0 0 0 -2 0"/><path d="M8 11v-4a4 4 0 1 1 8 0v4"/></svg>
+      <text x="500" y="408" fill="#2d3142" font-size="10" font-weight="600" font-family="'Geist', 'Noto Sans Thai', sans-serif" text-anchor="middle">ขอบเขตสิทธิ์เดียวกันทั้งระบบ · One Permission Scope</text>
+      <text x="500" y="422" fill="#4f5d75" font-size="10" font-family="'Geist', 'Noto Sans Thai', sans-serif" text-anchor="middle">เอกสาร · ชิ้นข้อมูล (Chunks) · สารบัญ (Tree Nodes) · เครื่องมือ AI (Agent Tools)</text>
 
       <!-- Legend -->
       <line x1="40" y1="440" x2="960" y2="440" stroke="rgba(45,49,66,0.10)" stroke-width="0.8"/>
@@ -219,13 +216,13 @@
       <rect x="40" y="464" width="20" height="12" rx="3" fill="transparent" stroke="rgba(45,49,66,0.30)" stroke-width="1" stroke-dasharray="4,3"/>
       <text x="68" y="474" fill="#4f5d75" font-size="8.5" font-family="'Geist', 'Noto Sans Thai', sans-serif">External source · outside cluster</text>
       <rect x="252" y="464" width="20" height="12" rx="3" fill="rgba(45,49,66,0.04)" stroke="rgba(45,49,66,0.25)" stroke-width="1"/>
-      <text x="280" y="474" fill="#4f5d75" font-size="8.5" font-family="'Geist', 'Noto Sans Thai', sans-serif">Kubernetes boundary</text>
-      <rect x="436" y="464" width="20" height="12" rx="3" fill="rgba(191,69,32,0.10)" stroke="#bf4520" stroke-width="1.2"/>
-      <text x="464" y="474" fill="#4f5d75" font-size="8.5" font-family="'Geist', 'Noto Sans Thai', sans-serif">Focal component (Qdrant)</text>
-      <line x1="648" y1="466" x2="668" y2="466" stroke="#bf4520" stroke-width="1.2"/>
-      <text x="676" y="471" fill="#4f5d75" font-size="8.5" font-family="'Geist', 'Noto Sans Thai', sans-serif">Primary data path</text>
+      <text x="280" y="474" fill="#4f5d75" font-size="8.5" font-family="'Geist', 'Noto Sans Thai', sans-serif">Cluster boundary</text>
+      <rect x="420" y="464" width="20" height="12" rx="3" fill="rgba(191,69,32,0.10)" stroke="#bf4520" stroke-width="1.2"/>
+      <text x="448" y="474" fill="#4f5d75" font-size="8.5" font-family="'Geist', 'Noto Sans Thai', sans-serif">Focal · scope applied before search</text>
+      <line x1="660" y1="466" x2="680" y2="466" stroke="#bf4520" stroke-width="1.2"/>
+      <text x="688" y="471" fill="#4f5d75" font-size="8.5" font-family="'Geist', 'Noto Sans Thai', sans-serif">Permission path</text>
       <line x1="808" y1="466" x2="828" y2="466" stroke="rgba(45,49,66,0.35)" stroke-width="1" stroke-dasharray="4,3"/>
-      <text x="836" y="471" fill="#4f5d75" font-size="8.5" font-family="'Geist', 'Noto Sans Thai', sans-serif">Orchestration trigger</text>
+      <text x="836" y="471" fill="#4f5d75" font-size="8.5" font-family="'Geist', 'Noto Sans Thai', sans-serif">Identity input</text>
     </svg>
     </div>
   </div>
